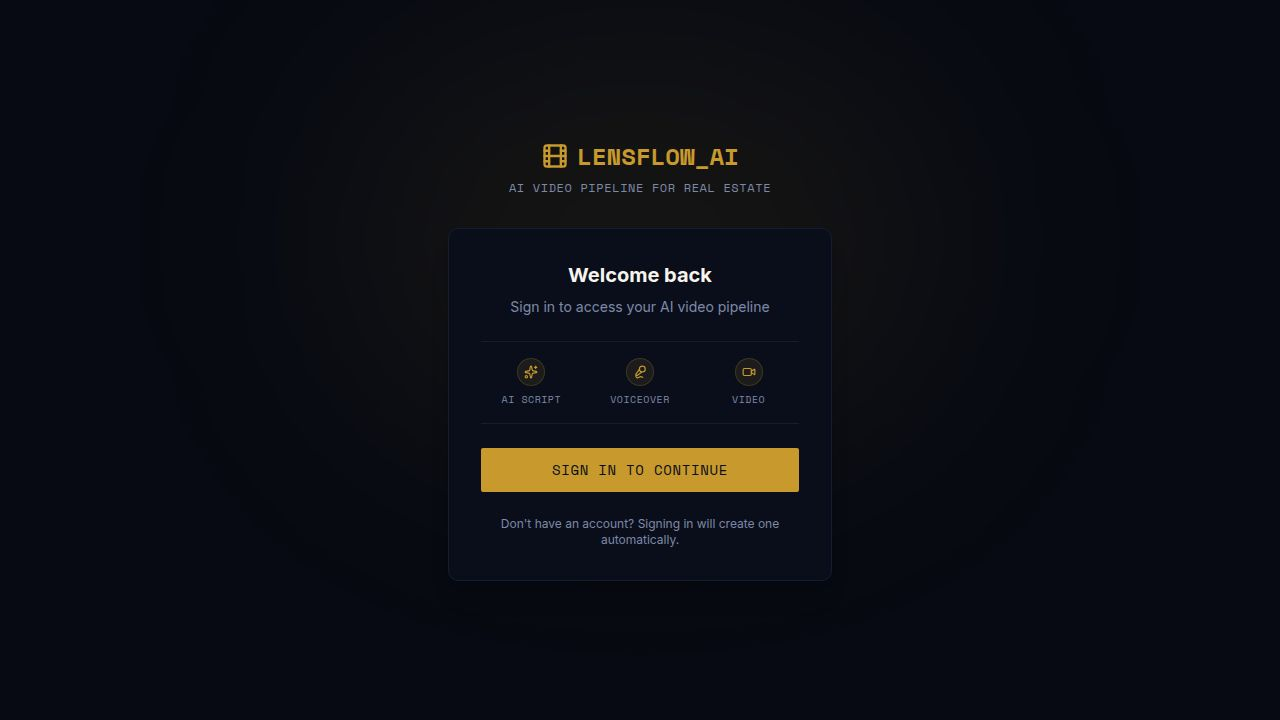
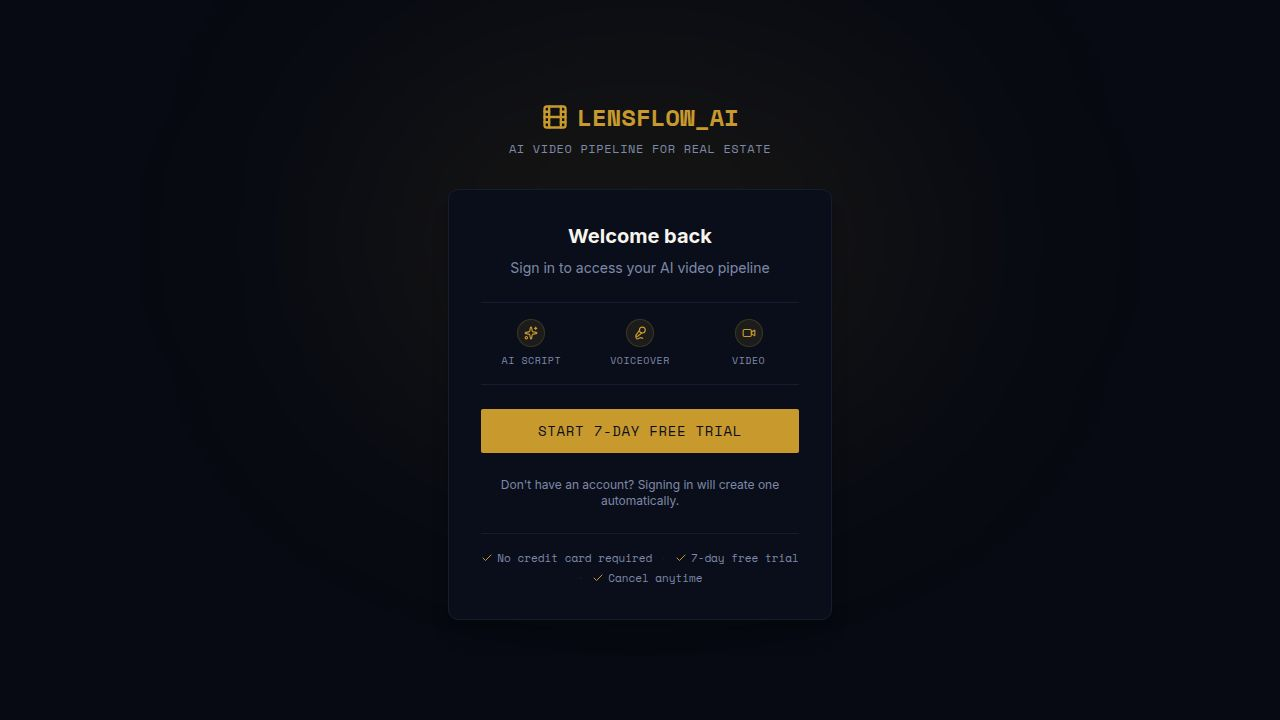
Add trust signals to the sign-up flow
Task #4: Reinforce the no-credit-card / free-trial / cancel-anytime
guarantees on the actual sign-up/checkout entry screen so they match the
pricing page and reduce drop-off.

Changes:
- artifacts/lensflow/src/App.tsx (AuthGate sign-in screen — the entry point
  where signing in auto-creates an account):
  - Added a trust-signal strip below the CTA echoing the pricing page copy
    exactly: "No credit card required · 7-day free trial · Cancel anytime",
    each with a Check icon, styled consistently with the existing card.
  - Changed the CTA label from "Sign In to Continue" to "Start 7-day Free
    Trial" to match the pricing page CTA ("Start 7-day Free Trial") and the
    free-trial framing.
  - Imported the Check icon from lucide-react.

Notes/deviations:
- The pipeline app has no separate checkout screen; the AuthGate sign-in
  card is the sign-up entry point (sign-in auto-creates an account), so the
  messaging was added there.
- Verified: pnpm --filter @workspace/lensflow run typecheck passes; visually
  confirmed via preview screenshot.

Replit-Task-Id: bacb2c27-5ff5-482c-bf52-6de4c76221ad

Changed region(s): [[0.375, 0.3667, 0.625, 0.825], [0.4062, 0.1528, 0.5938, 0.275], [0.4375, 0.3056, 0.5625, 0.3361]]

diff --git a/artifacts/lensflow/src/App.tsx b/artifacts/lensflow/src/App.tsx
@@ -17,7 +17,7 @@ import Recorder from "@/pages/recorder";
 import MorganChat from "@/components/MorganChat";
 import { PendingJobHandler } from "@/components/PendingJobHandler";
 import { useServiceWorker } from "@/hooks/use-service-worker";
-import { Film, Loader2, Sparkles, Mic2, Video } from "lucide-react";
+import { Film, Loader2, Sparkles, Mic2, Video, Check } from "lucide-react";
 
 const queryClient = new QueryClient();
 
@@ -79,11 +79,26 @@ function AuthGate({ children }: { children: React.ReactNode }) {
               onClick={login}
               className="w-full bg-primary text-primary-foreground hover:bg-primary/90 font-mono font-medium py-3 px-6 rounded-sm transition-colors text-sm uppercase tracking-wider"
             >
-              Sign In to Continue
+              Start 7-day Free Trial
             </button>
             <p className="text-xs text-muted-foreground">
               Don't have an account? Signing in will create one automatically.
             </p>
+
+            {/* Trust signals — mirrors pricing page guarantees */}
+            <div className="flex items-center justify-center flex-wrap gap-x-2 gap-y-1 text-[11px] font-mono text-muted-foreground border-t border-border pt-4">
+              <span className="flex items-center gap-1">
+                <Check className="w-3 h-3 text-primary" /> No credit card required
+              </span>
+              <span className="text-border">·</span>
+              <span className="flex items-center gap-1">
+                <Check className="w-3 h-3 text-primary" /> 7-day free trial
+              </span>
+              <span className="text-border">·</span>
+              <span className="flex items-center gap-1">
+                <Check className="w-3 h-3 text-primary" /> Cancel anytime
+              </span>
+            </div>
           </div>
         </div>
       </div>
